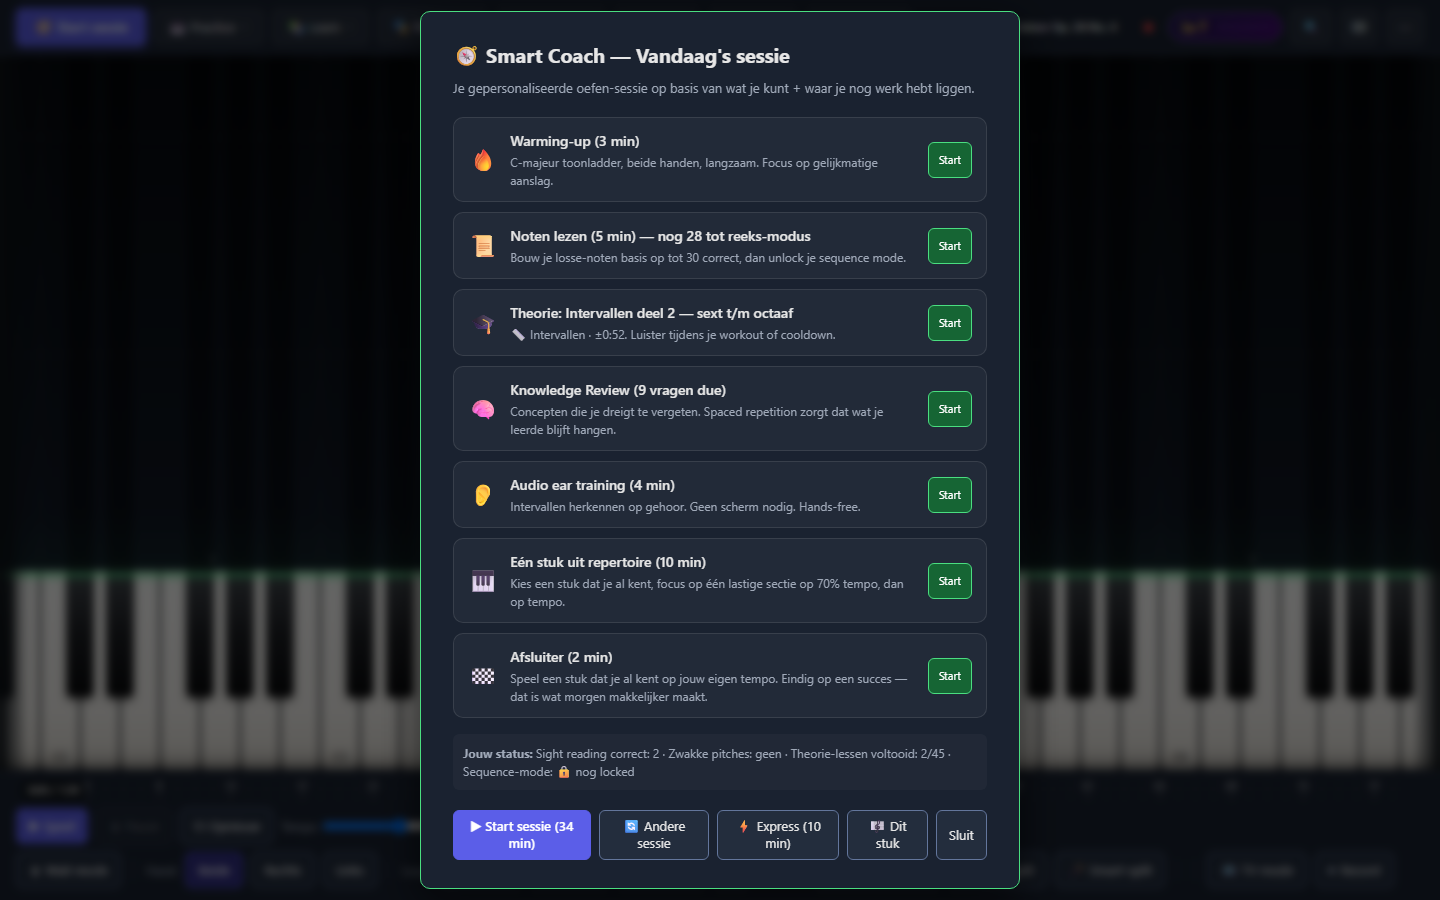
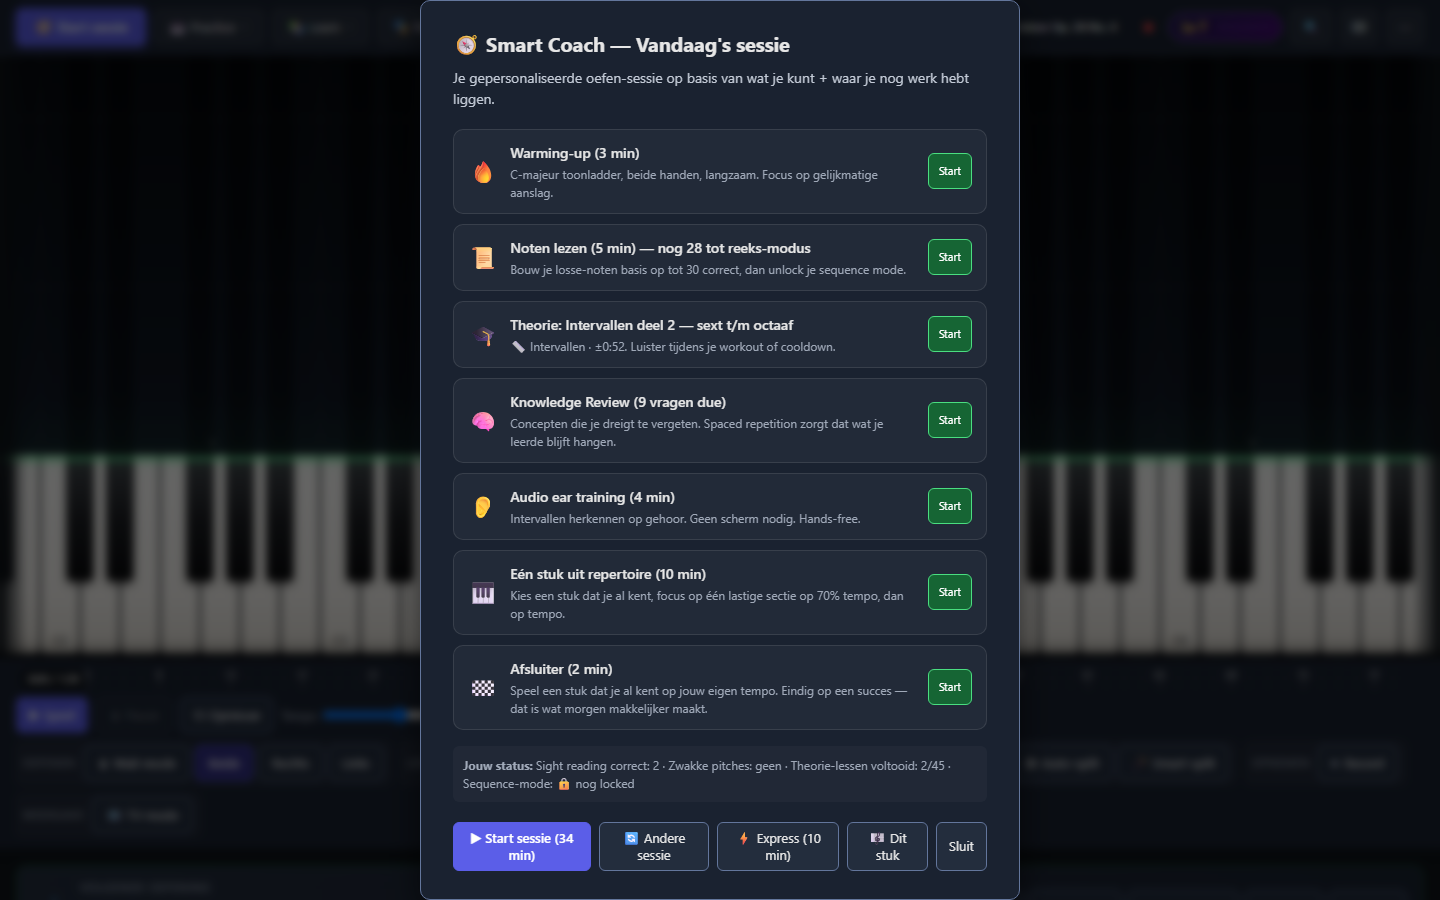
Design-review bijgewerkt met ronde 8

diff --git a/design-analyse-2026-08-16.md b/design-analyse-2026-08-16.md
@@ -1,6 +1,6 @@
 # Piano Coach — Design-analyse + stappenplan
 
-> **Status per 16 augustus 2026: alle zes fases uitgevoerd in v0.87, plus zeven vervolgrondes** (15 commits, zie `git log`).
+> **Status per 16 augustus 2026: alle zes fases uitgevoerd in v0.87, plus acht vervolgrondes** (17 commits, zie `git log`).
 > Resultaat gemeten: chrome boven het speelveld 330px → 55px (desktop) en 995px → 51px (mobiel),
 > instrument krijgt 73% van het telefoonscherm, 0 knoppen onder 32px (44px op touch),
 > 0 tekst onder 11px, 0 van 74 tekstelementen onder 4,5:1 contrast, 0 console-errors.
@@ -20,6 +20,11 @@
 > (6) de zone onder het dock: achievement-muur van 42 chips naar vijf, marges voor alle panelen;
 > (7) meetlat gemeten, en daarbij bleek de eerste tik op een telefoon stil te blijven omdat de
 > toetsen pas op load+1000ms aan pointer-events hingen. Nu meteen.
+>
+> (8) de drie plekken die nog uit de pas liepen: de 53 modals (elke dialoog had een groene rand
+> terwijl groen nu 'muzikaal juist' betekent; negen eyebrow-klassen gebruikten groen als decoratie),
+> de repertoire-kaarten (`MIDI laden…` kapte af, `✓ Geladen` was groen terwijl dat een systeemstaat
+> is), en het welkomstscherm dat nog '75+ modes' beloofde.
 >
 > **Meetlat, gemeten:** tijd tot je eerste noot — terugkerend desktop 1,7s / 0 klikken,
 > terugkerend telefoon 0,9s / 1 tik, nieuw desktop 3,0s / 2 klikken. Doel was onder 10 seconden.
